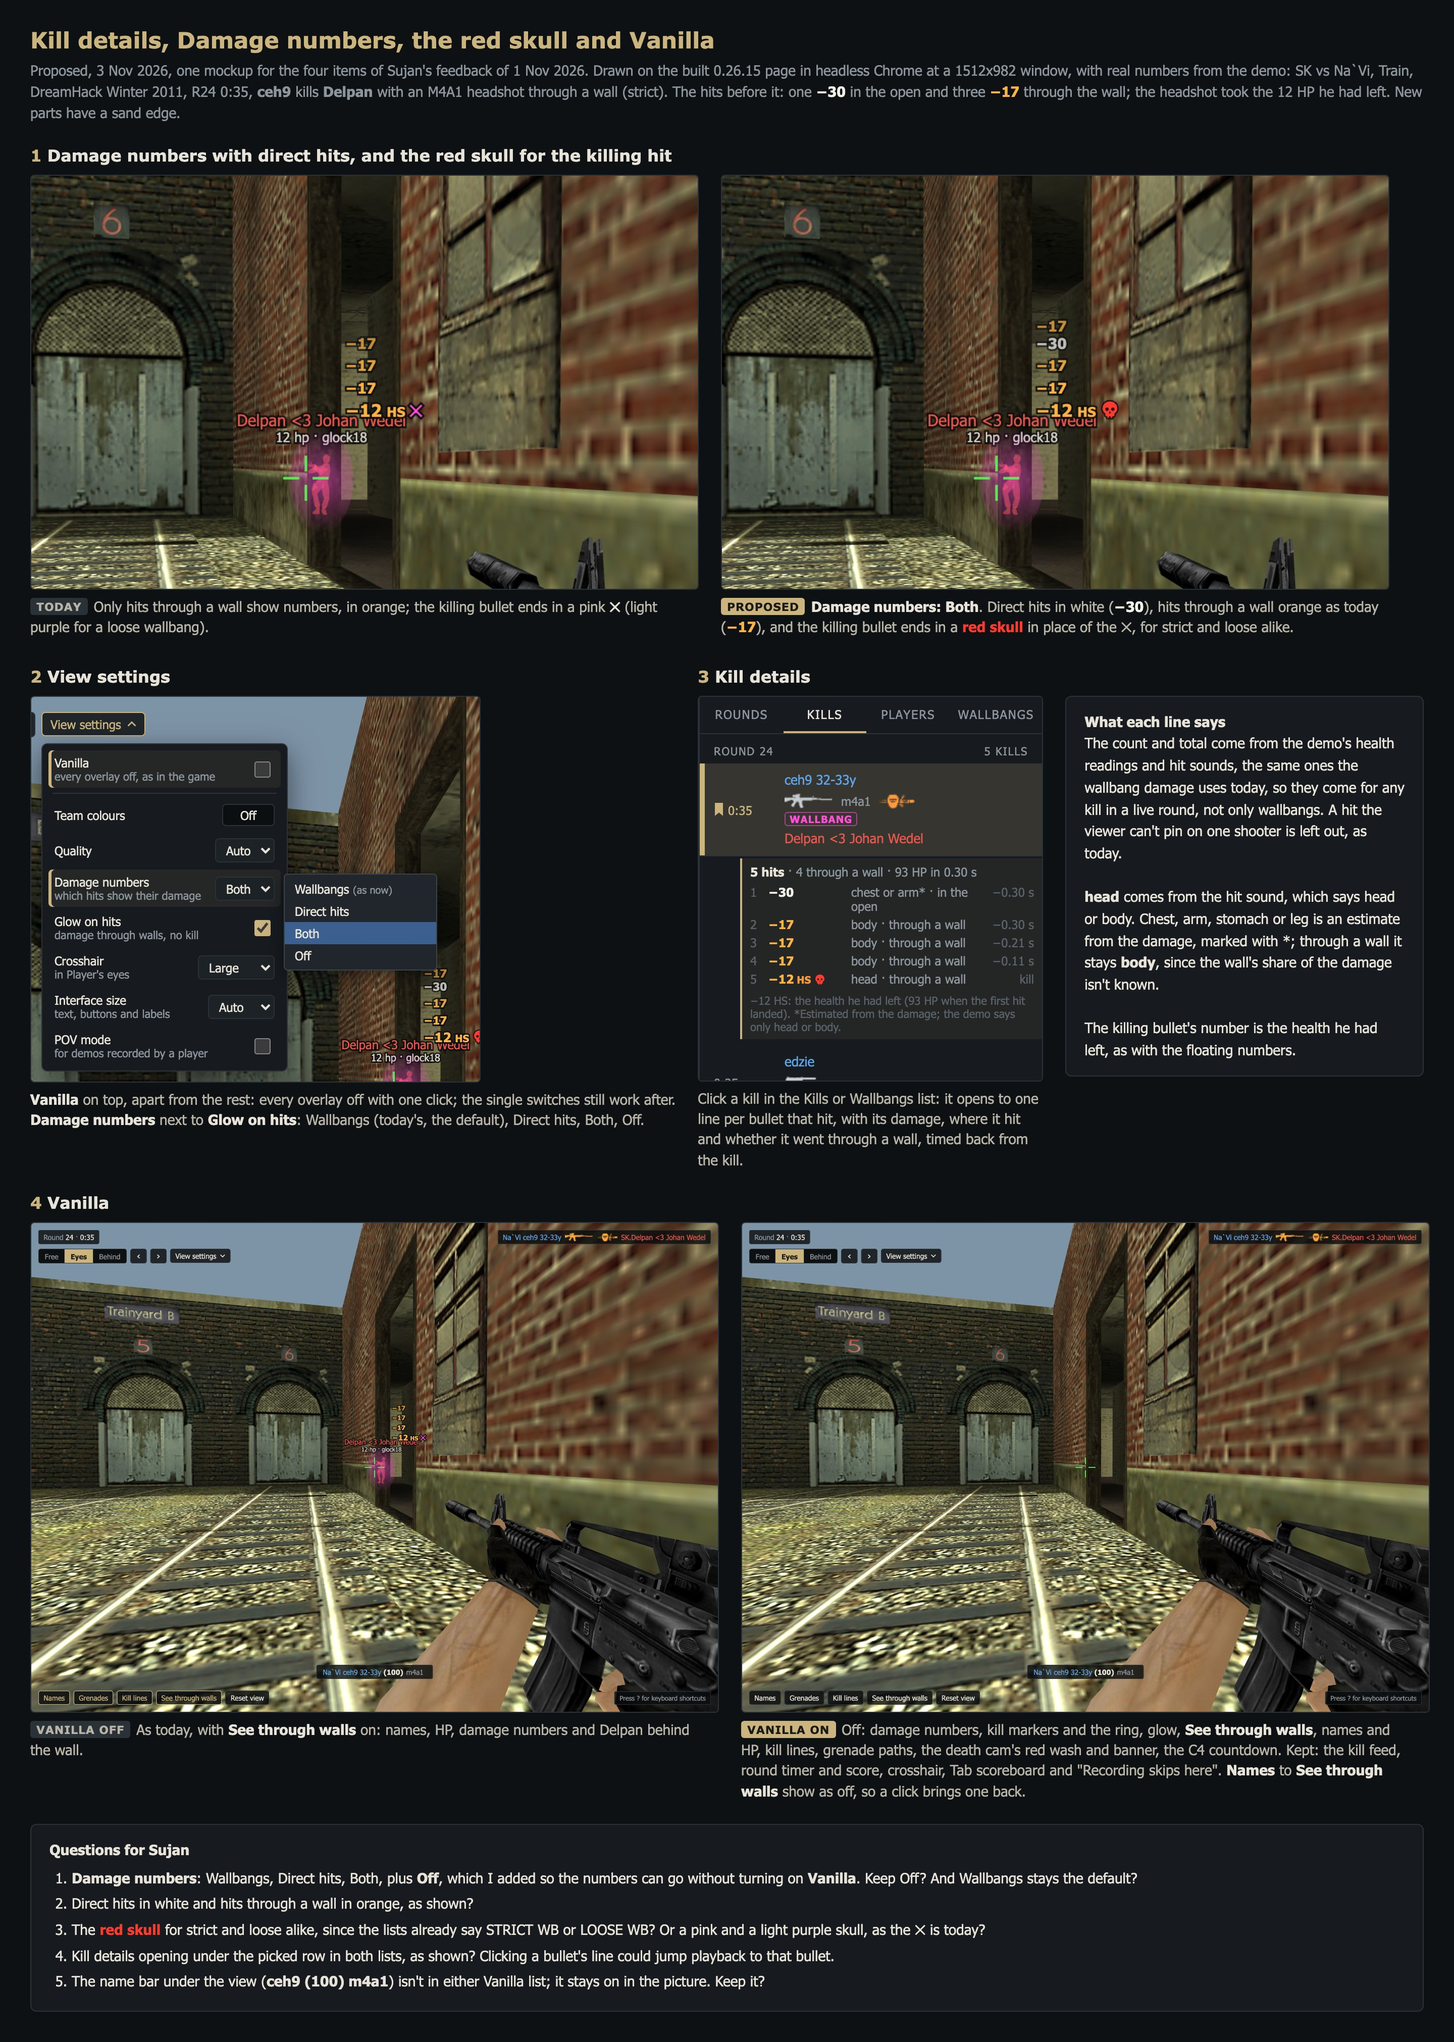
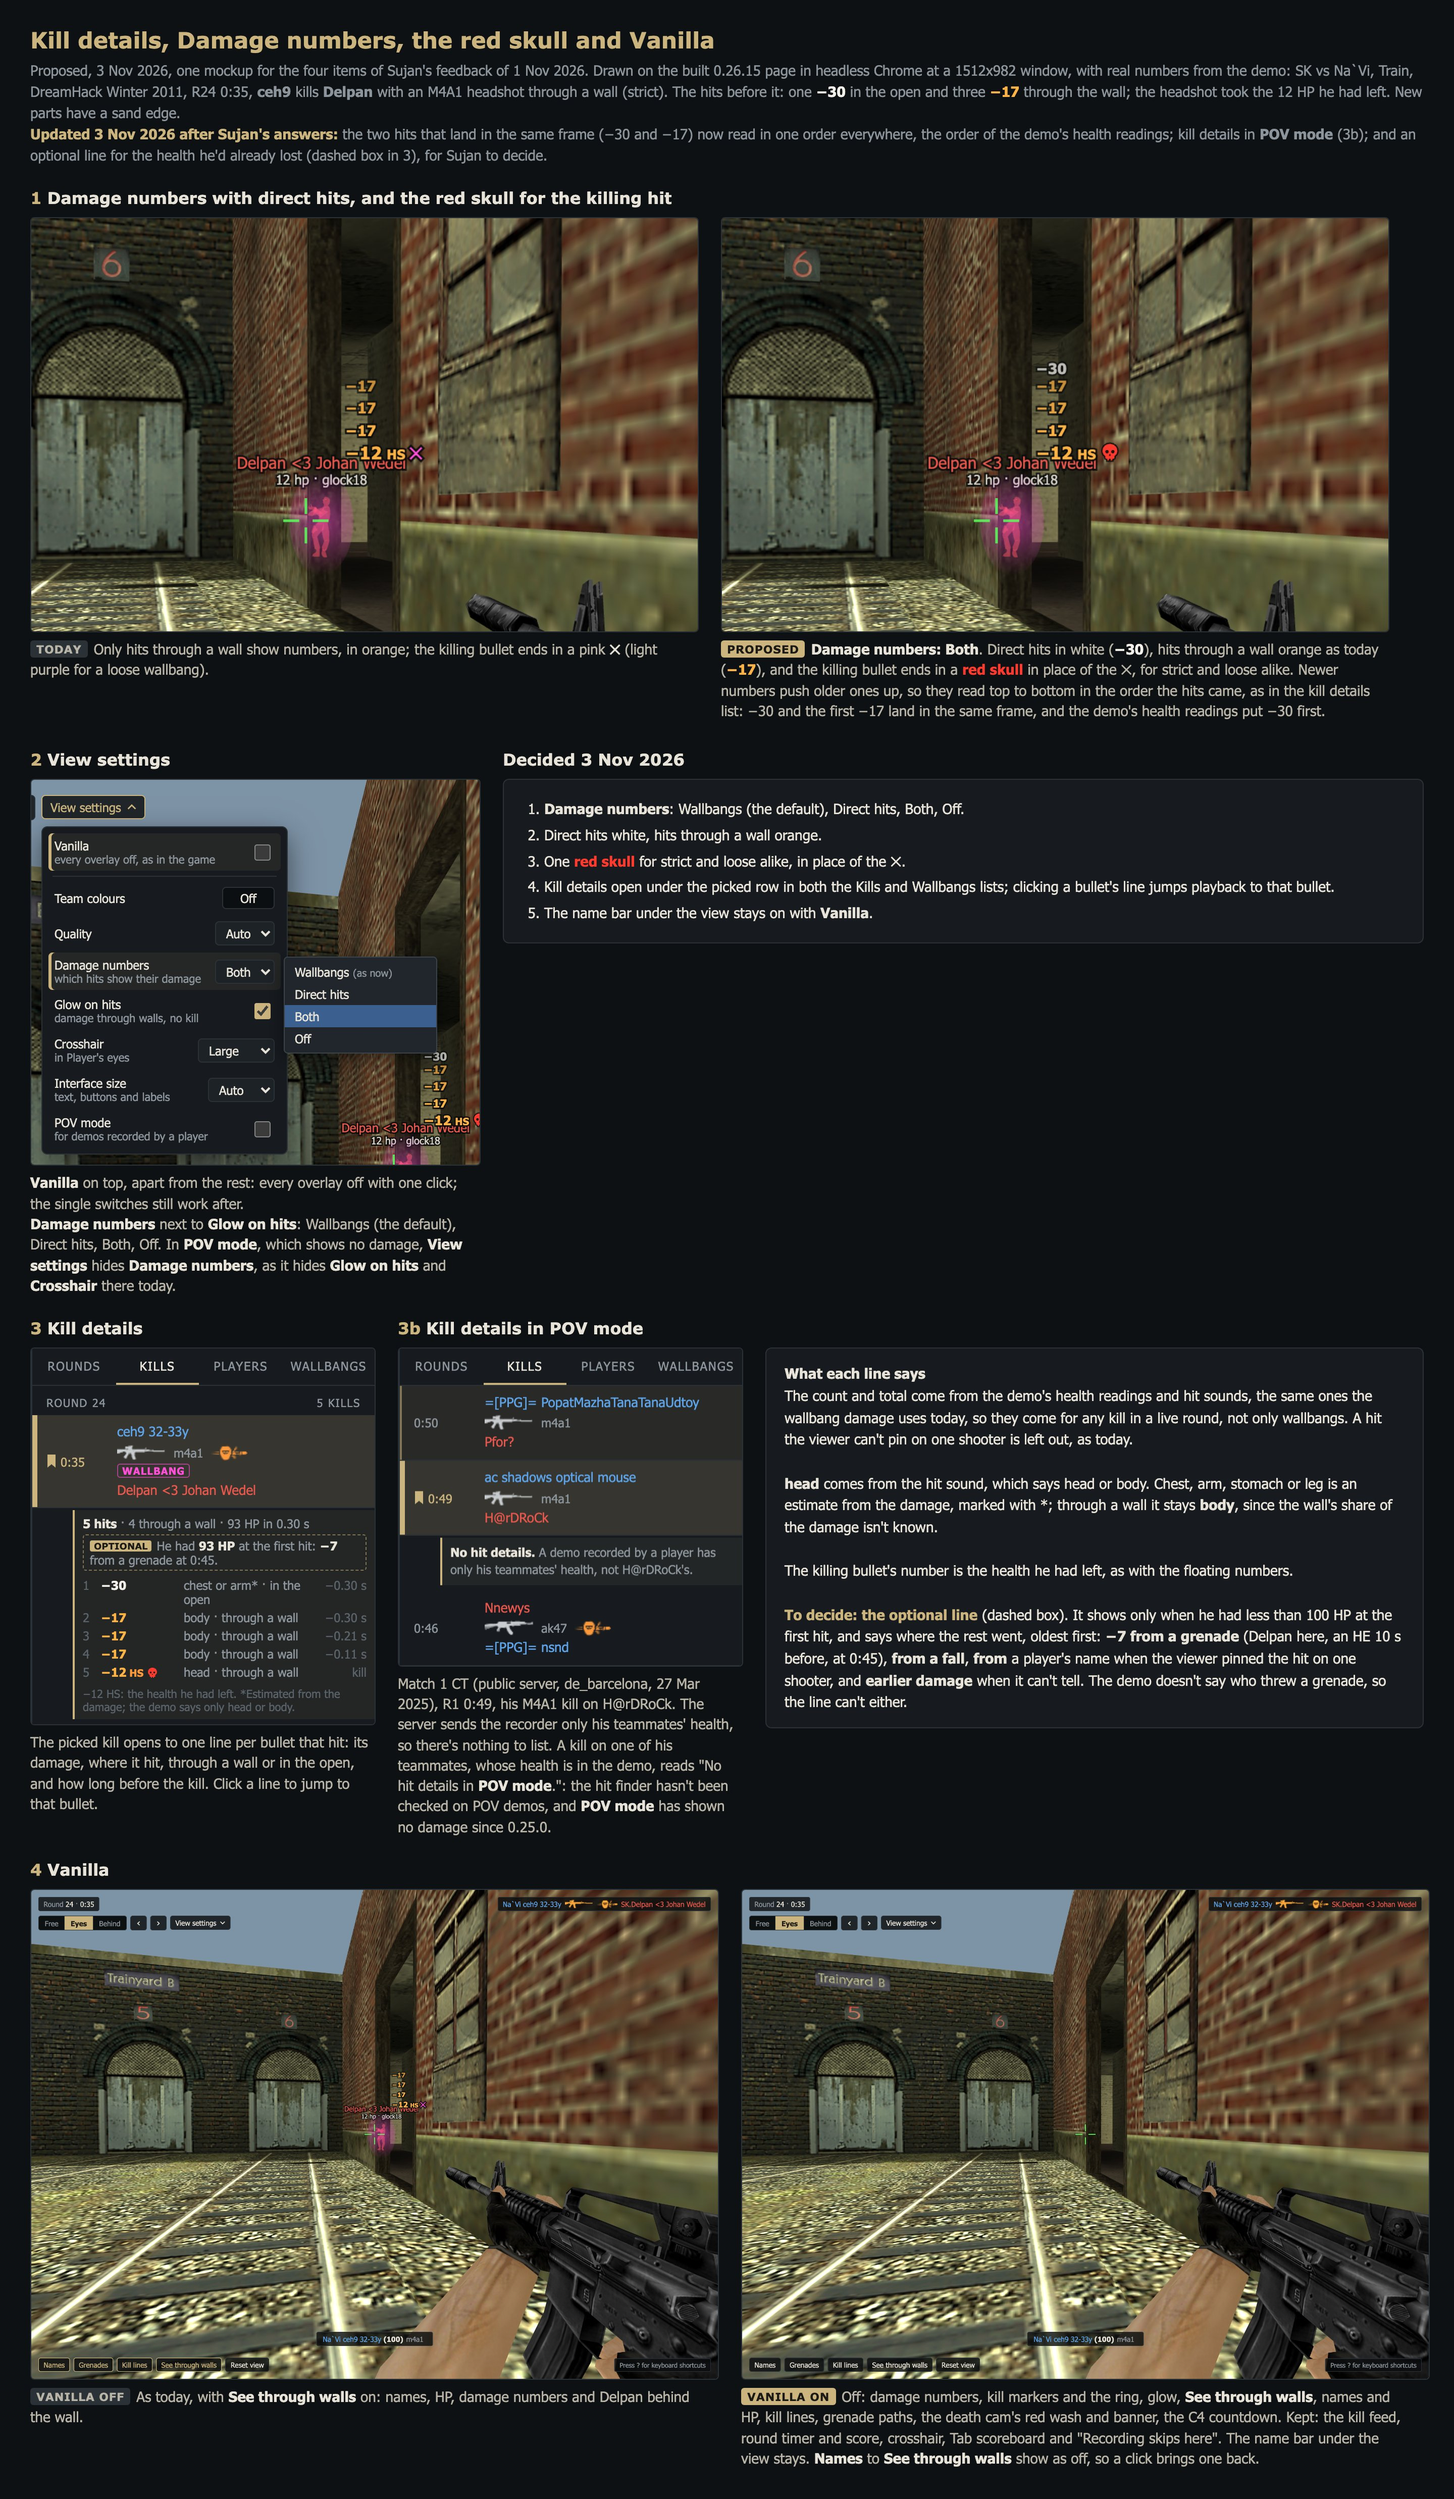
docs: update the kill details mockup after Sujan's answers
Sujan, 3 Nov 2026: the two hits that land in one frame on Delpan (-30,
then -17, the order of the demo's health readings) now read in the same
order in the floating numbers and in the list; kill details in POV mode
(Match 1 CT, de_barcelona, R1 0:49: "No hit details.", the recorder's
demo has only his teammates' health); and an optional line for the
health lost before the first hit ("-7 from a grenade at 0:45", from the
hit finder's own reason for that drop), for him to decide. The answers
he gave are listed in the picture.

diff --git a/docs/README.md b/docs/README.md
@@ -31,5 +31,5 @@ One line per file in `docs/` and `docs/proposed/`: what it shows, the release or
 
 ## docs/proposed/
 
-- [kill-details-damage-vanilla-mock.jpg](proposed/kill-details-damage-vanilla-mock.jpg): one mockup for four items of Sujan's feedback of 1 Nov 2026, drawn on the built 0.26.15 page in headless Chrome at a 1512x982 window with real numbers from SK vs Na`Vi, Train, DreamHack Winter 2011, R24 0:35 (ceh9 kills Delpan, M4A1 headshot through a wall, strict; one direct −30 and three −17 through the wall before it, the headshot taking the 12 HP left): 1, damage numbers today beside **Damage numbers: Both** (direct hits white, through a wall orange) with a red skull in place of the ✕; 2, **View settings** with **Vanilla** on top and **Damage numbers** (Wallbangs, Direct hits, Both, Off); 3, kill details, the picked row in the Kills list opened to one line per bullet; 4, **Vanilla** off and on; and five questions. Proposed 3 Nov 2026, waiting for Sujan's answers (IDEAS.md, **Kill details** and **Damage numbers setting**; STATE.md, Open now).
+- [kill-details-damage-vanilla-mock.jpg](proposed/kill-details-damage-vanilla-mock.jpg): one mockup for four items of Sujan's feedback of 1 Nov 2026, drawn on the built 0.26.15 page in headless Chrome at a 1512x982 window with real numbers from SK vs Na`Vi, Train, DreamHack Winter 2011, R24 0:35 (ceh9 kills Delpan, M4A1 headshot through a wall, strict; one direct −30 and three −17 through the wall before it, the headshot taking the 12 HP left): 1, damage numbers today beside **Damage numbers: Both** (direct hits white, through a wall orange) with a red skull in place of the ✕; 2, **View settings** with **Vanilla** on top and **Damage numbers** (Wallbangs, Direct hits, Both, Off); 3, kill details, the picked row in the Kills list opened to one line per bullet; 4, **Vanilla** off and on. Proposed 3 Nov 2026; Sujan answered its five questions the same day (STATE.md, Decisions) and asked for three changes, made in the updated picture of 3 Nov 2026: the two hits in one frame (−30, then −17) in one order in the view and in the list, the demo's health readings' order; 3b, kill details in **POV mode** on Match 1 CT (public server, de_barcelona, 27 Mar 2025), R1 0:49 ("No hit details.", since the recorder's demo has only his teammates' health); and an optional line for the health lost before the first hit ("−7 from a grenade at 0:45" for Delpan), for Sujan to decide (IDEAS.md, **Kill details** and **Damage numbers setting**; STATE.md, Open now).
 - [wallbang-hits-mock.jpg](proposed/wallbang-hits-mock.jpg): the mockup page "Wallbang hits mockups" (25 Oct 2026) on the 7 Nuke demos, with four questions: the damage picture in **Player's eyes** (glow, ring, damage box); where hits show (A, a Hits tab; B, the Wallbangs list with filters; C, under each round); how each wallbang's damage shows (1, by the shooter's name; 2, a line under the gun; 3, on hover only); and the next step. 0.24.0. Decided, though still in `proposed/`: Sujan picked B and 2 on 25 Oct 2026; the picture shown here wasn't taken, he asked for changes, and option C, numbers floating up beside the head, was chosen on 26 Oct 2026 (review-answers.md, "Wallbang hits mockups"; STATE.md, the wallbang decisions and Superseded).
